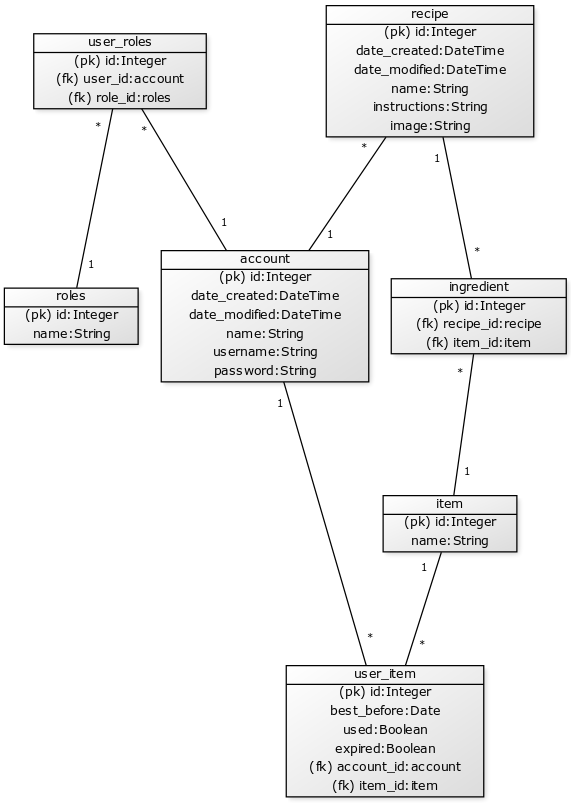
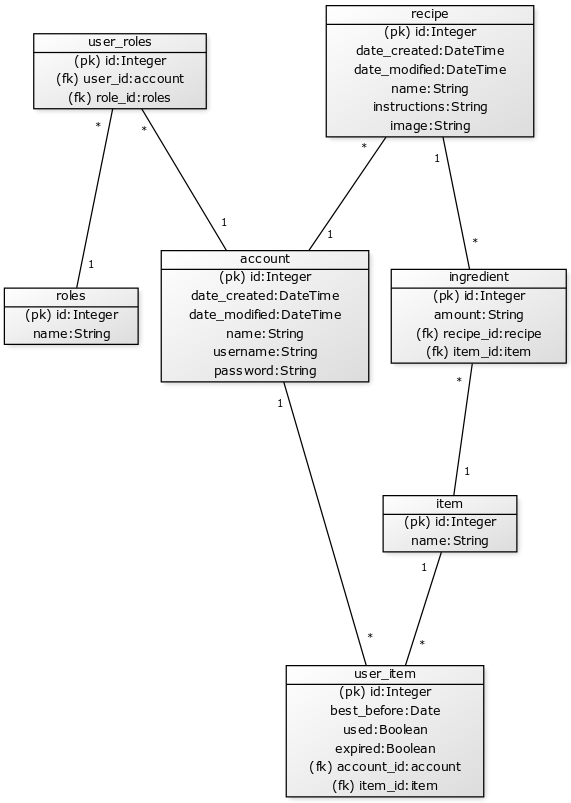
Update db diagram

Changed region(s): [[0.6848, 0.3113, 1.0, 0.467]]

diff --git a/application/templates/recipes/ingredients.html b/application/templates/recipes/ingredients.html
@@ -24,19 +24,19 @@
 <div class="card mt-2">
     <div class="card-header">
         <div class="row">
-        <div class="col-sm-2 mt-2">
-        <b>
-            {% if ingredient.amount != None %}
-                {{ ingredient.amount }}
-            {% endif %}
-        </b>
-        </div>
-        <div class="col-sm-10 d-flex">
-        <b class="mt-2"> {{ ingredient.name }} </b> 
-        <form class="ml-auto" method="POST" action="{{ url_for('ingredients_delete', ingredientId=ingredient.id , recipeId=recipeId) }}">
-            <input class="btn btn-secondary" type="submit" value="Delete" />
-        </form>
-        </div>
+            <div class="col-sm-2 mt-2">
+                <b class="float-right">
+                    {% if ingredient.amount != None %}
+                        {{ ingredient.amount }}
+                    {% endif %}
+                </b>
+            </div>
+            <div class="col-sm-10 d-flex">
+                <b class="mt-2"> {{ ingredient.name }} </b> 
+                <form class="ml-auto" method="POST" action="{{ url_for('ingredients_delete', ingredientId=ingredient.id , recipeId=recipeId) }}">
+                    <input class="btn btn-secondary" type="submit" value="Delete" />
+                </form>
+            </div>
         </div>
     </div>
 </div>
